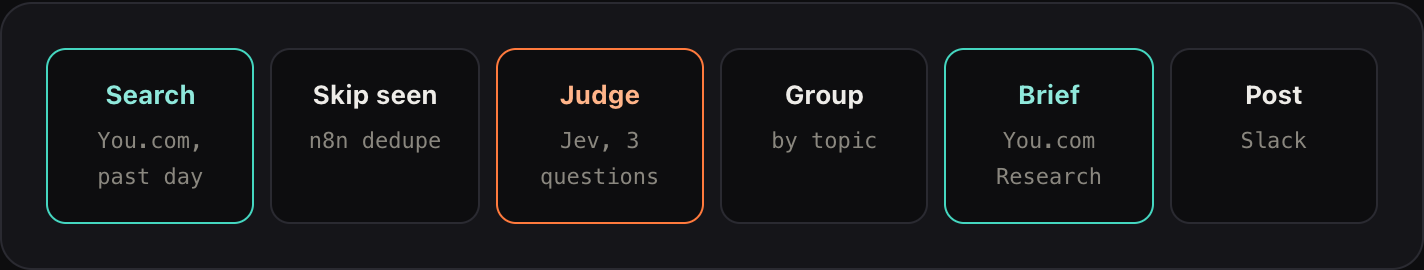
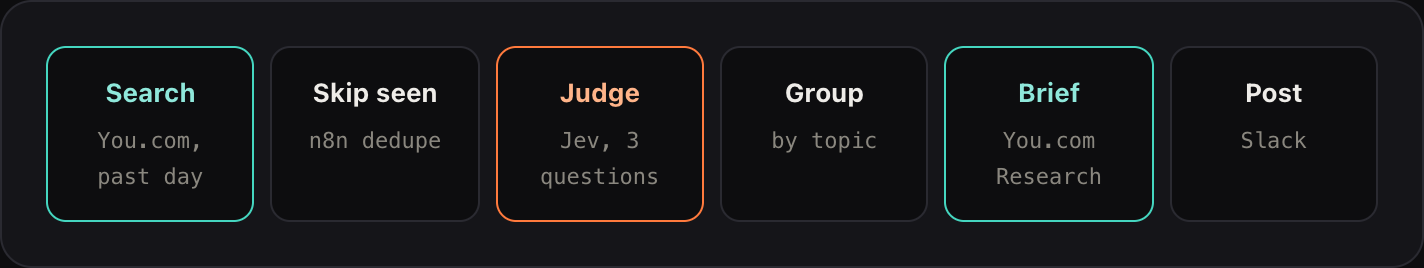
Add how the Jev questions were designed; fix inaccurate claims
Blog and README now cover the question-design pass, not just the
threshold evaluation: the first version flagged an encyclopedia page,
two funding-database pages, and an explainer (4 of 4 wrong on 26
articles); adding a 'reports one new development' question with negative
examples fixed it; structured, guide-style questions; a check on three
unseen companies (23 of 24 correct) before the full evaluation.

Corrections from a line-by-line check against the saved data:
- '40 results on a normal weekday' -> the template requests 15 per day
  (40 was the eval's weekly cap).
- 'grouping turned seven posts about one ruling into one bullet' -> the 7
  copies came from a test that never grouped. Reworded to what happened.
- '200x' cost multiple -> 'more than two hundred times' (actual ~273x).
- Unseen-company miss was a re-published old funding story, not
  duplicate coverage. Reworded.

diff --git a/docs/index.html b/docs/index.html
@@ -84,7 +84,7 @@
   <figcaption>A real morning brief. One post per topic, every claim linked to its source.</figcaption>
 </figure>
 
-<p>AI news moves faster than anyone can read. On a normal weekday, a search for "AI model releases news" returns forty results, and most of them aren't news. They're roundups of last week, release trackers, explainers, listicles, and topic pages that list everything at once.</p>
+<p>AI news moves faster than anyone can read. Search "AI model releases news" for the past day and most of what comes back isn't news. It's roundups of last week, release trackers, explainers, listicles, and topic pages that list everything at once.</p>
 <p>A morning brief that forwards all of that gets muted by Wednesday. So the job was never "summarize more." It's "read all of it, every day, and only speak up when something actually happened."</p>
 <p>This post covers what the workflow does, why it's built the way it is, and what we learned tuning it on eight weeks of real articles.</p>
 
@@ -121,12 +121,31 @@
 <p>A brief about yesterday needs yesterday's sources. A language model's knowledge stops at its training date, so the workflow starts with You.com Search, which returns live results with publication dates. The same API writes the brief at the end, citing the articles it read.</p>
 
 <h3>Judgment has to be cheap enough to run on everything</h3>
-<p>The filter is only useful if it reads every article, not a sample. Jev scores one for about $0.00004, so reading forty results per topic costs a fraction of a cent. Sending every one of them to a research call instead would cost about two hundred times more.</p>
+<p>The filter is only useful if it reads every article, not a sample. Jev scores one for about $0.00004, so reading every result for three topics costs a fraction of a cent. Sending each one to a research call instead would cost more than two hundred times as much.</p>
 
 <h3>Decisions should come with a confidence</h3>
 <p>Jev doesn't return prose to parse. It returns a probability for each yes-or-no question and a score for materiality, each with a confidence. That makes the policy explicit: a threshold in the workflow, not a sentence in a prompt.</p>
 
-<h2><span class="num">03 · How</span>Tuning it on eight weeks of real news.</h2>
+<h2><span class="num">03 · How</span>Designing the questions, then tuning the thresholds.</h2>
+<p>Getting the filter right took two passes. First, finding the right questions to ask Jev, which happened in small, quick experiments. Second, setting the thresholds, which took a proper evaluation.</p>
+
+<h3>Start from what fails</h3>
+<p>The first version asked Jev two things about each article: is it about the company or topic, and how much does it matter? On a first batch of 26 real search results, it flagged 4 articles as important news. All 4 were wrong: an encyclopedia page, two funding-database pages, and an explainer.</p>
+<p>Jev wasn't making a mistake. Those pages really do describe important events, like funding rounds and acquisitions, and they'd been updated recently, so they passed the date filter. The questions just never asked whether the page itself was news.</p>
+
+<h3>Add one narrow question, with examples of what doesn't count</h3>
+<p>So we added a third question: does this page report one specific development that happened around its publish date? Its instructions list what doesn't count—profiles, wikis, funding databases, explainers, and reviews—as concrete examples.</p>
+<p>On the same 26 articles, the four bad pages dropped to scores between 0.04 and 0.23, and the two real stories still passed. When we moved from tracking companies to tracking topics like model releases, a new kind of noise appeared—release trackers and "AI updates today" roundups—so those went into the examples too.</p>
+
+<h3>Use structure, the way Jev's guide recommends</h3>
+<p>TypeSafe's <a href="https://docs.typesafe.ai/concepts/how-to-build-with-system-one">guide to building with Jev</a> recommends structured inputs: put the data in the state as fields, reference them by name in each question, and give each answer option a description and examples. In an earlier experiment routing questions to the right research depth, that structure raised Jev's average confidence from 0.70 to 0.89 on the same 12 test questions compared with plain one-line questions. So every question in this template uses it.</p>
+
+<h3>Check it on cases you didn't write it for</h3>
+<p>Questions written while looking at specific articles can quietly overfit to them. Before going further, we ran the filter on three companies it had never seen. It made the right call on 23 of 24 articles. The one miss was an old funding story that an outlet had re-published, so it looked new.</p>
+<p>That run surfaced a bigger problem, too. One company's busy week produced six separate alerts, mostly different outlets covering the same launch and funding round. That's why the workflow groups articles by topic and writes one brief per topic, instead of one post per article.</p>
+
+<h3>Then measure</h3>
+<p>Small experiments found the right questions. They couldn't tell us where to set the thresholds, so the second pass was a proper evaluation.</p>
 <p>A filter like this is easy to demo and hard to trust. To pick the thresholds, we collected 674 articles from eight one-week windows across three topics, using the template's exact search, and scored every one with the template's exact Jev request.</p>
 <p>Then we labeled 160 of them by hand, "belongs in the brief" or not, without looking at Jev's scores. We chose thresholds using the first four weeks and checked them on the last four, which weren't used for tuning.</p>
 
@@ -176,9 +195,9 @@
 
 <h3>Things testing caught that a demo wouldn't</h3>
 <ul>
-  <li><b>Encyclopedia pages looked like news.</b> Wikipedia and funding-database pages were updated recently and described real events, so they passed until the "one new development" question named them as examples of what doesn't count.</li>
-  <li><b>One launch became seven alerts.</b> Big news gets covered by many outlets. Grouping by topic before writing the brief turned seven posts about one court ruling into one bullet.</li>
+  <li><b>One story, seven articles.</b> Big news gets covered by many outlets. In one test, a single appeals-court ruling produced seven separate passing articles. Grouping by topic means the brief writes about them together instead of posting seven times.</li>
   <li><b>A model name drifted.</b> One early brief wrote "Claude 3.5 Sonnet" for an article about Sonnet 5.5. The research prompt now asks to keep product names exactly as the articles give them.</li>
+  <li><b>Test runs hid real runs.</b> n8n remembers which articles it has seen, including during testing, so a test run could make the next real morning come up empty. The template now has a warning on that node explaining how to clear it.</li>
 </ul>
 
 <div class="note">These numbers come from one labeler, 49 real developments, and historical search results that thin out in older weeks. Treat them as a careful sanity check, not a benchmark. The data and scripts are in the repo, so you can check them.</div>

diff --git a/README.md b/README.md
@@ -44,7 +44,11 @@ Articles that pass are grouped by topic, so five outlets covering one launch bec
 
 ## How It Was Tuned
 
-The thresholds came from an evaluation on 674 articles across 8 weeks, with 160 labeled by hand without seeing Jev's scores.
+Tuning took two passes.
+
+**1. Finding the right questions.** The first version asked Jev only whether an article was on topic and how much it mattered. On its first batch of real results, all 4 articles it flagged were wrong: an encyclopedia page, two funding-database pages, and an explainer. They describe real events, but they aren't news. Adding one narrow question—does this page report a single new development—with examples of what doesn't count fixed it. The questions follow the structured style from [TypeSafe's guide](https://docs.typesafe.ai/concepts/how-to-build-with-system-one), and were checked on companies they weren't written for before going further.
+
+**2. Setting the thresholds.** An evaluation on 674 articles across 8 weeks, with 160 labeled by hand without seeing Jev's scores. Thresholds were picked on the first four weeks and checked on the last four.
 
 | | Wrong posts in the labeled sample | Share of posts that were real news (held-out weeks) | Stories caught |
 |---|---|---|---|
